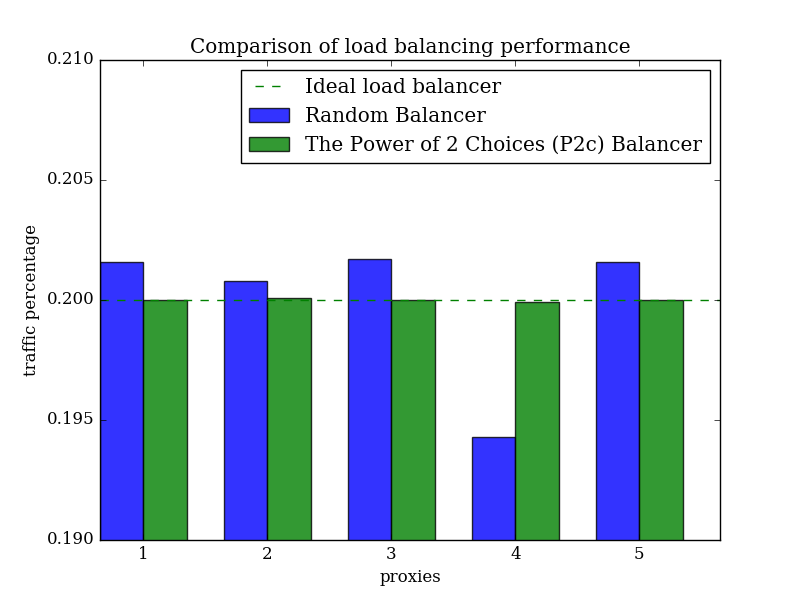
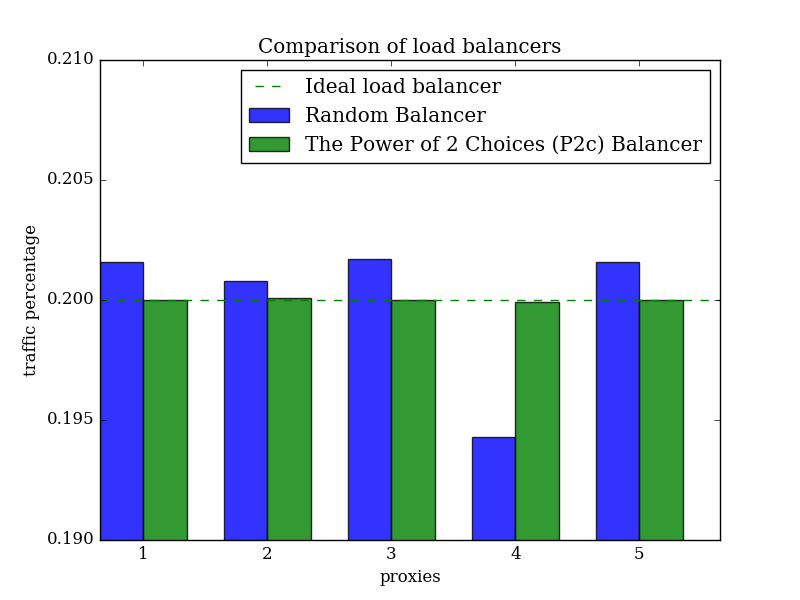
better documentation

Changed region(s): [[0.2188, 0.06, 0.7812, 0.09]]

diff --git a/docs/plot_errors.py b/docs/plot_errors.py
@@ -24,7 +24,7 @@ plt.bar(bins + bar_width, p2c_balancer, bar_width, alpha=0.8,
 plt.axhline(y=0.2, linestyle='dashed',
     color='g', label='Ideal load balancer')
 
-plt.title('Comparison of load balancing algorithms')
+plt.title('Comparison of load balancers')
 
 plt.ylim([0.19, 0.21])
 plt.ylabel(r'traffic percentage')

diff --git a/README.md b/README.md
@@ -12,16 +12,19 @@
 npm install --save arrow-function-load-balancer
 ```
 
-## Comparison of load balancing algorithms
+## Comparison of load balancers
 
 - The Random Balancer is a bit chaotic; it doesn't distribute requests as evenly as one would think because there's no such thing as perfect randomness.
-- The Power of 2 Choices (P2c) Balancer comes very close to the ideal load balancer. **Use the P2c balancer over the random balancer.**
+- The Power of Two Choices (P2c) Balancer comes very close to the ideal load balancer. **Use the P2c balancer over the random balancer.**
 
 ![Comparison of load balancing algorithms](https://raw.githubusercontent.com/paulborza/arrow-function-load-balancer/master/docs/errors.png)
 
-## Usage
+The chart above depicts 10,000 requests routed to five proxies (exactly like in the following code sample).
+Then the numer of requests are normalized to 100%. Since there are five proxies, each proxy should receive 20% of the traffic.
+But notice that's not the case with the random load balancing algorithm.
+That's why [the power of two choices](http://www.eecs.harvard.edu/~michaelm/postscripts/tpds2001.pdf) (P2c) load balancing algorithm is recommended over the random load balancing algorithm.
 
-The power of two choices [load balancing algorithm](http://www.eecs.harvard.edu/~michaelm/postscripts/tpds2001.pdf) (P2c) is recommended over the random load balancing algorithm.
+## Usage
 
 ```javascript
 import {
@@ -38,7 +41,7 @@ const proxies = [
     'http://proxy5.arrowfunction.com/',
 ];
 
-// Initializes the power of two choices (P2c) balancer with three proxies.
+// Initializes the power of 2 choices (P2c) balancer with five proxies.
 const balancer = new P2cBalancer(proxies.length);
 
 // P2c balancer is preferred over the random balancer.
